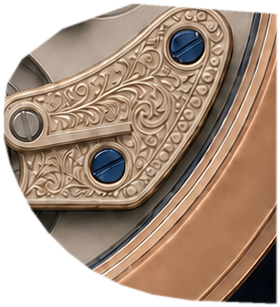
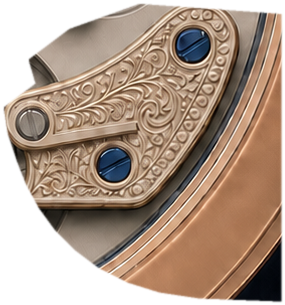
The cock's own cutout was over-traced, eating the band beside it
Row scans put the plate's warm gold starting ~4 degrees clockwise of
where its polygon claimed, so the static was stamping plate shadow over
the band. Flank vertices corrected to the measured edge (y769 x767,
y793 x735, y818 x739); the band now runs to the gold with no dark gap
at r98-110.

diff --git a/index.html b/index.html
@@ -271,7 +271,7 @@
                 <img class="cb-rig-part" data-part="balance" data-anim="{&quot;type&quot;:&quot;oscillate&quot;,&quot;amplitude_deg&quot;:135,&quot;period_s&quot;:2.6}" src="/assets/caseback/rig/part-balance.webp" alt="" decoding="async">
               </div>
               <img class="cb-rig-static" src="/assets/caseback/rig/static-bridges.webp" style="left:41.388%;top:19.537%;width:36.204%;height:39.155%" alt="" decoding="async">
-              <img class="cb-rig-static" src="/assets/caseback/rig/static-cock.webp" style="left:58.692%;top:54.545%;width:22.329%;height:24.482%" alt="" decoding="async">
+              <img class="cb-rig-static" src="/assets/caseback/rig/static-cock.webp" style="left:58.214%;top:54.625%;width:22.727%;height:24.322%" alt="" decoding="async">
               <img class="cb-rig-static" src="/assets/caseback/rig/static-steelarm.webp" style="left:50.957%;top:34.211%;width:7.576%;height:10.447%" alt="" decoding="async">
               <img class="cb-rig-static" src="/assets/caseback/rig/static-topslot.webp" style="left:57.496%;top:35.486%;width:14.514%;height:19.378%" alt="" decoding="async">
               <img class="cb-rig-static" src="/assets/caseback/rig/static-balance-arc-cover.webp" style="left:56.938%;top:60.686%;width:8.612%;height:10.925%" alt="" decoding="async">
